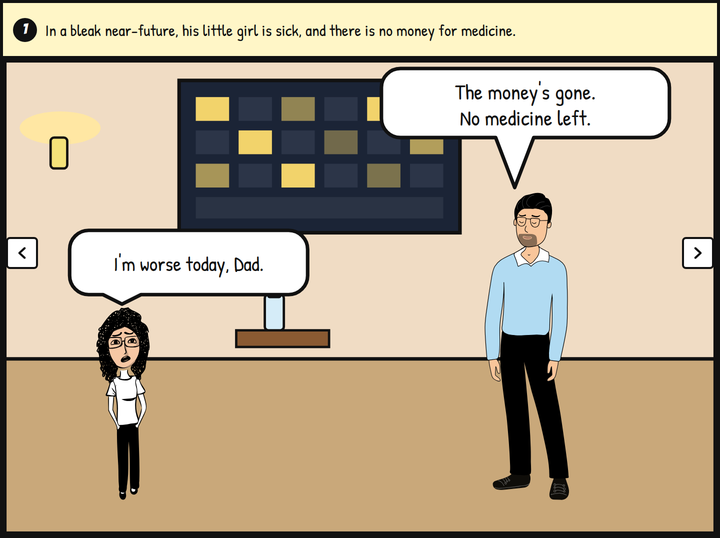
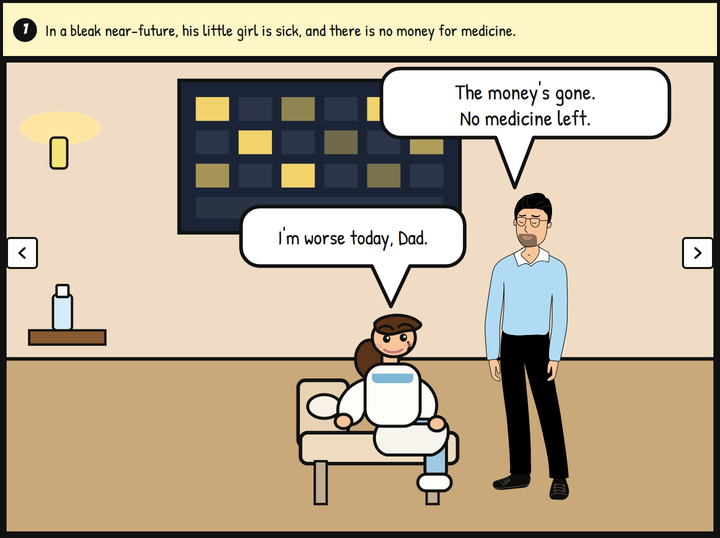
Replace the Running Man daughter with an original seated child.
Scene 1 no longer uses a scaled Comicgen adult. The girl is drawn with a round face, short limbs, and a head about one fifth of her height, sitting beside Ethan.

Changed region(s): [[0.0306, 0.3569, 0.6722, 0.9517]]

diff --git a/_includes/comicbook-the-running-man.html b/_includes/comicbook-the-running-man.html
@@ -39,13 +39,18 @@
 <line x1="0" y1="252" x2="600" y2="252" stroke="#111" stroke-width="3"/>
 <ellipse cx="48" cy="58" rx="34" ry="14" fill="#ffe7a3"/>
 <rect x="40" y="66" width="14" height="26" rx="3" fill="#f4e27a" stroke="#111" stroke-width="2"/>
-<rect x="196" y="228" width="78" height="14" fill="#8a5a32" stroke="#111" stroke-width="2"/>
-<rect x="220" y="198" width="16" height="30" rx="3" fill="#d5ecf8" stroke="#111" stroke-width="2"/>
-<rect x="223" y="190" width="10" height="10" rx="1" fill="#f7f7f7" stroke="#111" stroke-width="2"/>
-<image href="{{ '/assets/comics/the-running-man/girl.svg' | relative_url }}" x="27" y="200" width="147" height="176"/>
+<rect x="22" y="228" width="64" height="12" fill="#8a5a32" stroke="#111" stroke-width="2"/>
+<rect x="42" y="198" width="16" height="30" rx="3" fill="#d5ecf8" stroke="#111" stroke-width="2"/>
+<rect x="45" y="190" width="10" height="10" rx="1" fill="#f7f7f7" stroke="#111" stroke-width="2"/>
+<rect x="248" y="270" width="42" height="56" rx="6" fill="#e7d3b4" stroke="#111" stroke-width="3"/>
+<ellipse cx="270" cy="292" rx="14" ry="10" fill="#f7f1e6" stroke="#111" stroke-width="2.5"/>
+<rect x="250" y="314" width="132" height="26" rx="6" fill="#efdcc0" stroke="#111" stroke-width="3"/>
+<rect x="262" y="338" width="10" height="36" fill="#c4ae90" stroke="#111" stroke-width="2"/>
+<rect x="356" y="338" width="10" height="36" fill="#c4ae90" stroke="#111" stroke-width="2"/>
+<image href="{{ '/assets/comics/the-running-man/girl.svg' | relative_url }}" x="266" y="206" width="151" height="169"/>
 <image href="{{ '/assets/comics/the-running-man/ben-sad-side.svg' | relative_url }}" x="276" y="92" width="249" height="298" transform="translate(801,0) scale(-1,1)"/>
-<path d="M 72 144 H 240 A 16 16 0 0 1 256 160 V 182 A 16 16 0 0 1 240 198 H 116 L 100 206 L 84 198 H 72 A 16 16 0 0 1 56 182 V 160 A 16 16 0 0 1 72 144 Z" fill="#fff" stroke="#111" stroke-width="3" stroke-linejoin="round"/>
-<text x="156" y="178" font-family="'Patrick Hand', 'Comic Neue', 'Comic Sans MS', cursive" font-size="17" fill="#111" text-anchor="middle">I'm worse today, Dad.</text>
+<path d="M 216 124 H 372 A 16 16 0 0 1 388 140 V 158 A 16 16 0 0 1 372 174 H 342 L 326 208 L 310 174 H 216 A 16 16 0 0 1 200 158 V 140 A 16 16 0 0 1 216 124 Z" fill="#fff" stroke="#111" stroke-width="3" stroke-linejoin="round"/>
+<text x="294" y="156" font-family="'Patrick Hand', 'Comic Neue', 'Comic Sans MS', cursive" font-size="17" fill="#111" text-anchor="middle">I'm worse today, Dad.</text>
 <path d="M 334 8 H 544 A 16 16 0 0 1 560 24 V 50 A 16 16 0 0 1 544 66 H 446 L 430 108 L 414 66 H 334 A 16 16 0 0 1 318 50 V 24 A 16 16 0 0 1 334 8 Z" fill="#fff" stroke="#111" stroke-width="3" stroke-linejoin="round"/>
 <text x="439" y="34" font-family="'Patrick Hand', 'Comic Neue', 'Comic Sans MS', cursive" font-size="18" fill="#111" text-anchor="middle"><tspan x="439" dy="0">The money's gone.</tspan><tspan x="439" dy="22">No medicine left.</tspan></text>
 <rect x="1.5" y="1.5" width="597" height="397" fill="none" stroke="#111" stroke-width="3"/></svg>
@@ -219,5 +224,5 @@
         <button type="button" class="dot" aria-label="Show scene 6"></button>
     </div>
   </div>
-  <p class="rm-credit">Fan-made, unaffiliated, and spoiler-free. Dialogue is original. Not endorsed by Stephen King or his publishers. Characters rendered with <a href="https://gramener.com/comicgen/">Gramener Comicgen</a> (MIT). Character art: Ethan by Devarani B; Dee, Dey, Priya, and Ringo by Ramya Mylavarapu (CC0). Fonts: Patrick Hand &amp; Bangers (SIL OFL).</p>
+  <p class="rm-credit">Fan-made, unaffiliated, and spoiler-free. Dialogue is original. Not endorsed by Stephen King or his publishers. Characters rendered with <a href="https://gramener.com/comicgen/">Gramener Comicgen</a> (MIT). Character art: Ethan by Devarani B; Dey, Priya, and Ringo by Ramya Mylavarapu (CC0). The daughter is original fan art. Fonts: Patrick Hand &amp; Bangers (SIL OFL).</p>
 </section>

diff --git a/README.md b/README.md
@@ -60,6 +60,6 @@ The Firestarter strip is fan-made, non-commercial, and based on the public publi
 The Running Man strip is fan-made, non-commercial, and based on the public premise of the 1982 Richard Bachman novel (Signet, May 1982): in a bleak near-future, a desperate, broke father whose young daughter is sick signs up for a deadly television game show, The Running Man. He must stay alive while the public is paid to report him and hunters track him down. The strip does not follow the plot past that premise. Dialogue is original. It is unofficial fan work, not affiliated with or endorsed by Stephen King or his publishers.
 
 - **Comicgen** by Gramener ([gramener.com/comicgen](https://gramener.com/comicgen/), [github.com/gramener/comicgen](https://github.com/gramener/comicgen)); code under MIT.
-- **Character art** uses Comicgen CC0 character assets, including Sophie. The Running Man strip uses Ethan by Devarani B, and Dee, Dey, Priya, and Ringo by Ramya Mylavarapu (CC0).
+- **Character art** uses Comicgen CC0 character assets, including Sophie. The Running Man strip uses Ethan by Devarani B, and Dey, Priya, and Ringo by Ramya Mylavarapu (CC0). The daughter is original fan art in that flat style.
 - **Noto emoji** (envelope) © Google Inc., Apache License 2.0.
 - **Fonts:** Patrick Hand and Bangers, SIL Open Font License 1.1.
